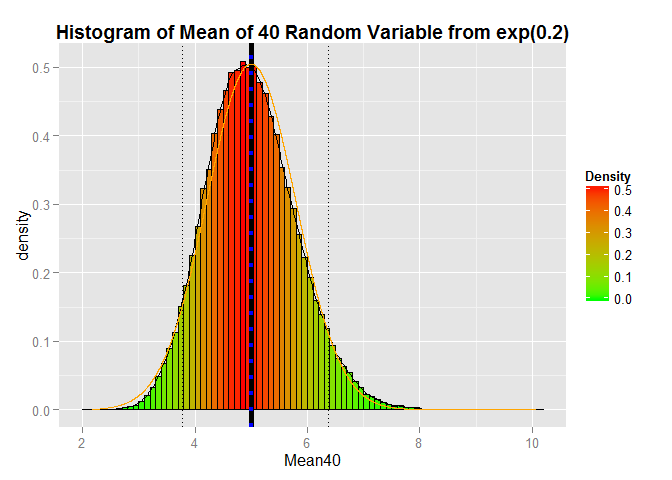
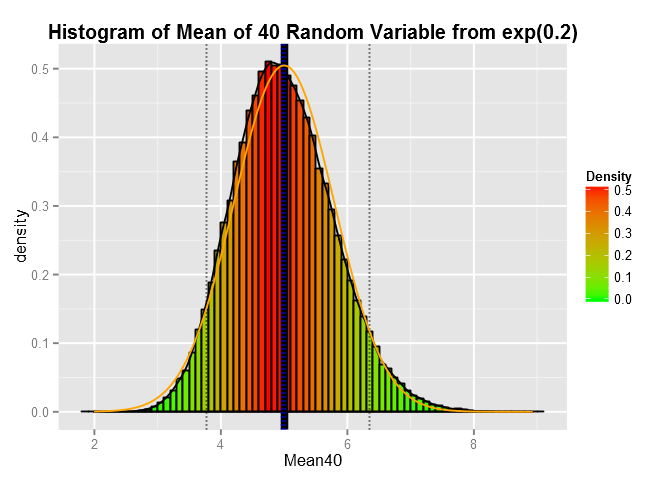
version 2!

diff --git a/simulation.html b/simulation.html
@@ -58,6 +58,7 @@ if (window.hljs && document.readyState && document.readyState === "complete") {
 <p>For this peer assignment, we are required to perform a simulation exercise for the exponential distribution with lambda = 0.2. Below are the codes to generate the random variables.</p>
 <pre class="r"><code>#importing the necessary libraries
 library(ggplot2)
+library(Cairo)
 
 lambda &lt;- 0.2
 nsim &lt;- 100000 
@@ -69,7 +70,7 @@ expmean &lt;- data.frame(Mean40=colMeans(expdata))</code></pre>
 theo.var &lt;- lambda^(-2)/40
 sample.mean &lt;- colMeans(expmean)
 sample.var &lt;- var(expmean$Mean40)</code></pre>
-<p>The sample mean is 4.9989 with variance 0.6268. We know that the theoretical mean of an exponential distribution is 1/lambda = 5, and the variance is 0.625.</p>
+<p>The sample mean is 4.9955 with variance 0.6214. We know that the theoretical mean of an exponential distribution is 1/lambda = 5, and the variance is 0.625.</p>
 <p>We then generate the theoretical normal distribution based on these properties to be included into the final empirical plot.</p>
 <pre class="r"><code>normdist &lt;- dnorm(expmean$Mean40, mean=theo.mean, sd=sqrt(theo.var))</code></pre>
 <p>And plot everything together here:</p>
@@ -84,7 +85,7 @@ g1 + geom_histogram(aes(y=..density.., fill=..density..), binwidth=0.1,
     geom_line(aes(x=expmean$Mean40, y=normdist), color=&quot;orange&quot;) +
     ggtitle(&quot;Histogram of Mean of 40 Random Variable from exp(0.2)&quot;) + 
     theme(plot.title = element_text(face=&quot;bold&quot;))</code></pre>
[2 lines of base64/hex data omitted]
 <p>The plot is coloured such that the bin with the highest density is red while the lowest is green. This shows very clearly that the highest density is somewhere about the mean of the sample mean (plotted with a thick black bar). Overlayed on top of the sample mean line is also a dotted blue line, which is the theoretical mean of 5. (The theoretical and sample mean values are almost the same.)</p>
 <p>Besides the mean values, the thinner dotted lines on both sides of the plot is the 5th and 95th percentile of the sample respectively.</p>
 <p>The orange line is the theoretical normal distribution with mean = 5 and variance = 0.625. You can see that the empirical distribution is almost similar to the normal distribution.</p>
@@ -92,7 +93,7 @@ g1 + geom_histogram(aes(y=..density.., fill=..density..), binwidth=0.1,
 <p>Computing the 95% CI:</p>
 <pre class="r"><code>CI &lt;- theo.mean + c(-1,1)*1.96*sqrt(sample.var/40)
 CI &lt;- data.frame(Lower=CI[1],Upper=CI[2])</code></pre>
-<p>The 95% CI of 4.7547, 5.2453 includes the theoretical mean.</p>
+<p>The 95% CI of 4.7557, 5.2443 includes the theoretical mean.</p>
 
 
 </div>

diff --git a/simulation.md b/simulation.md
@@ -5,6 +5,7 @@ For this peer assignment, we are required to perform a simulation exercise for t
 ```r
 #importing the necessary libraries
 library(ggplot2)
+library(Cairo)
 
 lambda <- 0.2
 nsim <- 100000 
@@ -23,7 +24,7 @@ sample.mean <- colMeans(expmean)
 sample.var <- var(expmean$Mean40)
 ```
 
-The sample mean is 4.9989 with variance 0.6268. We know that the theoretical mean of an exponential distribution is 1/lambda = 5, and the variance is 0.625.
+The sample mean is 4.9955 with variance 0.6214. We know that the theoretical mean of an exponential distribution is 1/lambda = 5, and the variance is 0.625.
 
 We then generate the theoretical normal distribution based on these properties to be included into the final empirical plot.
 
@@ -65,4 +66,4 @@ Computing the 95% CI:
 CI <- theo.mean + c(-1,1)*1.96*sqrt(sample.var/40)
 CI <- data.frame(Lower=CI[1],Upper=CI[2])
 ```
-The 95% CI of 4.7547, 5.2453 includes the theoretical mean.
+The 95% CI of 4.7557, 5.2443 includes the theoretical mean.
